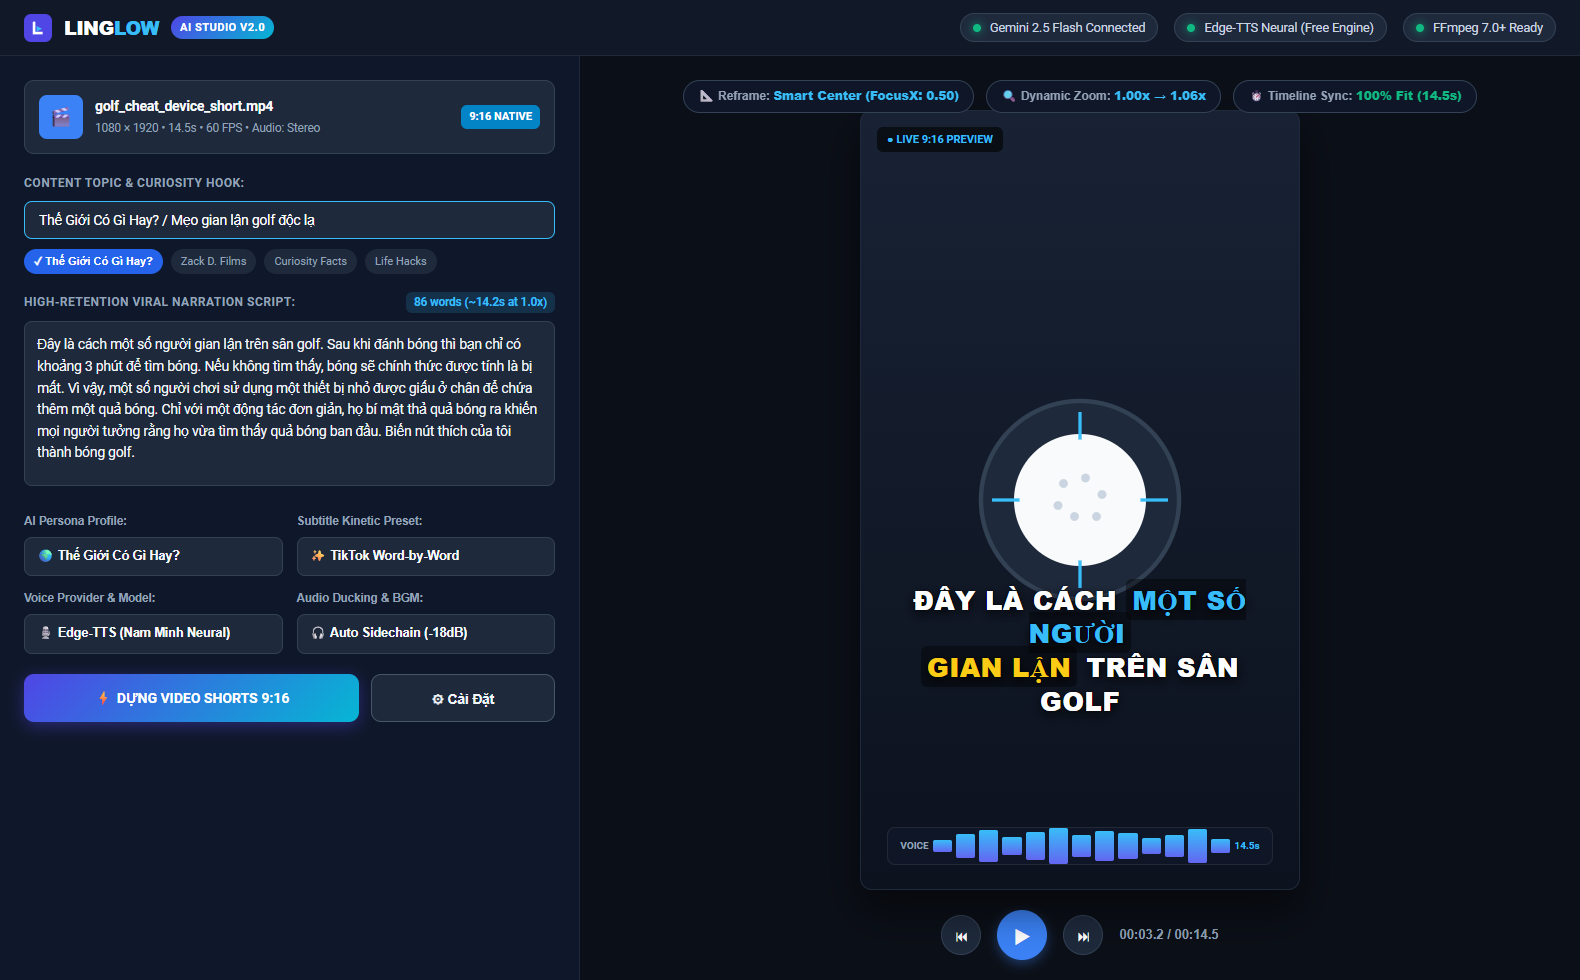
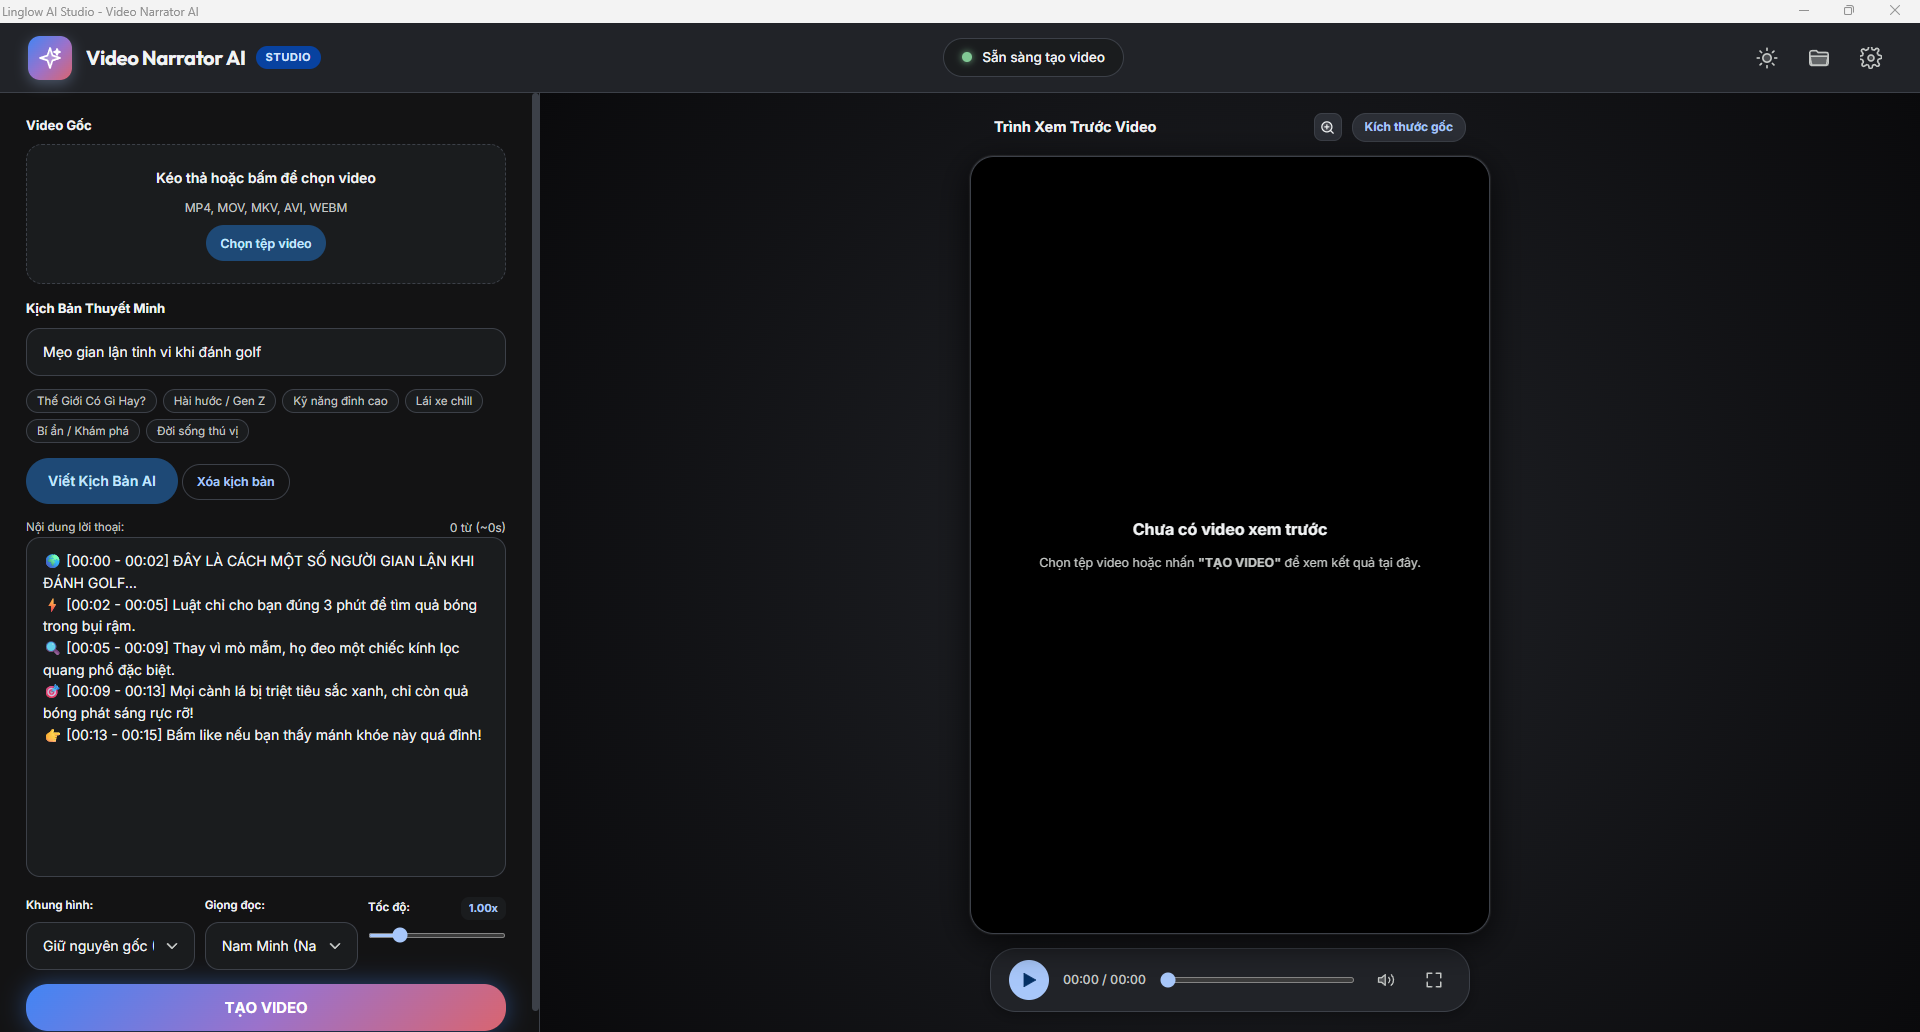
docs: replace screenshots with live captures from running desktop app

diff --git a/VideoNarrator/MainWindow.xaml b/VideoNarrator/MainWindow.xaml
@@ -2,7 +2,7 @@
         xmlns="http://schemas.microsoft.com/winfx/2006/xaml/presentation"
         xmlns:x="http://schemas.microsoft.com/winfx/2006/xaml"
         xmlns:wv2="clr-namespace:Microsoft.Web.WebView2.Wpf;assembly=Microsoft.Web.WebView2.Wpf"
-        Title="Video Narrator AI - Studio Tự Động Hóa Video" 
+        Title="Linglow AI Studio - Video Narrator AI" 
         Height="980" Width="1580"
         MinHeight="780" MinWidth="1200"
         WindowStartupLocation="CenterScreen"

diff --git a/VideoNarrator/MainWindow.xaml.cs b/VideoNarrator/MainWindow.xaml.cs
@@ -149,6 +149,34 @@ namespace VideoNarrator
 
                 if (File.Exists(htmlPath))
                 {
+                    webView.NavigationCompleted += async (s, e) =>
+                    {
+                        try
+                        {
+                            if (App.DemoDataRequested)
+                            {
+                                await Task.Delay(800);
+                                string demoScript = "🌍 [00:00 - 00:02] ĐÂY LÀ CÁCH MỘT SỐ NGƯỜI GIAN LẬN KHI ĐÁNH GOLF...\\n⚡ [00:02 - 00:05] Luật chỉ cho bạn đúng 3 phút để tìm quả bóng trong bụi rậm.\\n🔍 [00:05 - 00:09] Thay vì mò mẫm, họ đeo một chiếc kính lọc quang phổ đặc biệt.\\n🎯 [00:09 - 00:13] Mọi cành lá bị triệt tiêu sắc xanh, chỉ còn quả bóng phát sáng rực rỡ!\\n👉 [00:13 - 00:15] Bấm like nếu bạn thấy mánh khóe này quá đỉnh!";
+                                string js = $@"
+                                    const scriptEl = document.getElementById('scriptInput');
+                                    if (scriptEl) {{ scriptEl.value = '{demoScript}'; }}
+                                    const topicEl = document.getElementById('topicInput');
+                                    if (topicEl) {{ topicEl.value = 'Mẹo gian lận tinh vi khi đánh golf'; }}
+                                    const personaSelect = document.getElementById('personaSelect');
+                                    if (personaSelect) {{ personaSelect.value = 'the_gioi_co_gi_hay'; }}
+                                ";
+                                await webView.CoreWebView2.ExecuteScriptAsync(js);
+                            }
+
+                            if (App.OpenSettingsRequested)
+                            {
+                                await Task.Delay(1000);
+                                await webView.CoreWebView2.ExecuteScriptAsync("document.getElementById('settingsModal')?.classList.remove('hidden');");
+                            }
+                        }
+                        catch { }
+                    };
+
                     webView.CoreWebView2.Navigate(new Uri(htmlPath).AbsoluteUri);
                 }
                 else

diff --git a/VideoNarrator/App.xaml.cs b/VideoNarrator/App.xaml.cs
@@ -14,9 +14,23 @@ namespace VideoNarrator
     {
         private ServiceProvider? _serviceProvider;
 
+        public static bool DemoDataRequested { get; private set; }
+        public static bool OpenSettingsRequested { get; private set; }
+
         protected override void OnStartup(StartupEventArgs e)
         {
             base.OnStartup(e);
+
+            if (e.Args.Length > 0)
+            {
+                foreach (var arg in e.Args)
+                {
+                    if (string.Equals(arg, "--demo-data", StringComparison.OrdinalIgnoreCase))
+                        DemoDataRequested = true;
+                    else if (string.Equals(arg, "--open-settings", StringComparison.OrdinalIgnoreCase))
+                        OpenSettingsRequested = true;
+                }
+            }
 
             if (e.Args.Length > 0 && e.Args[0] == "--test")
             {
